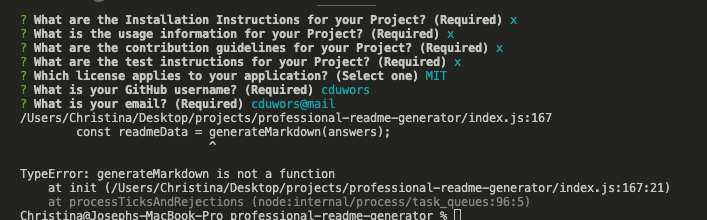
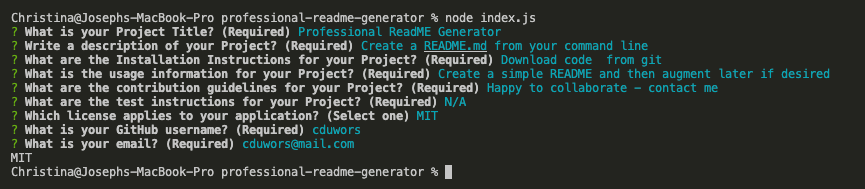
updated images

Changed region(s): [[0.0, 0.0529, 0.9646, 1.0], [0.4356, 0.0, 0.529, 0.0265], [0.1245, 0.0, 0.1556, 0.0265]]

diff --git a/dist/README.md b/dist/README.md
@@ -1,10 +1,10 @@
-# My README Generator 
+# Professional ReadME Generator 
 
 ![License: MIT](https://img.shields.io/badge/License-MIT-yellow.svg)
 
 
 ## Description
-This project creates a professional README from user input to the command line
+Create a README.md from your command line
 
 ## Table of Contents
 - [Installation](#installation)
@@ -14,12 +14,13 @@ This project creates a professional README from user input to the command line
 - [Tests](#tests)
 - [Questions](#questions)
 
+
 ## Installation 
-Download code from Git
+Download code  from git
 
 
 ## Usage
-Create a quick and easy README for each of your projects and then flesh it out with details later
+Create a simple README and then augment later if desired
 
 
 ## License
@@ -27,7 +28,7 @@ This project is licensed with MIT.  See License Information at https://opensourc
 
 
 ## Contributing
-Contact me to collaborate
+Happy to collaborate - contact me
 
 
 ## Tests

diff --git a/README.md b/README.md
@@ -41,7 +41,9 @@ GitHub Repository: https://github.com/cduwors/professional-readme-generator
 ## Images
 
 Input Sample
+
 <img src= "./img/README Input view.png"/>
 
 Output Sample
+
 <img src= "./img/README sample.png"/>
